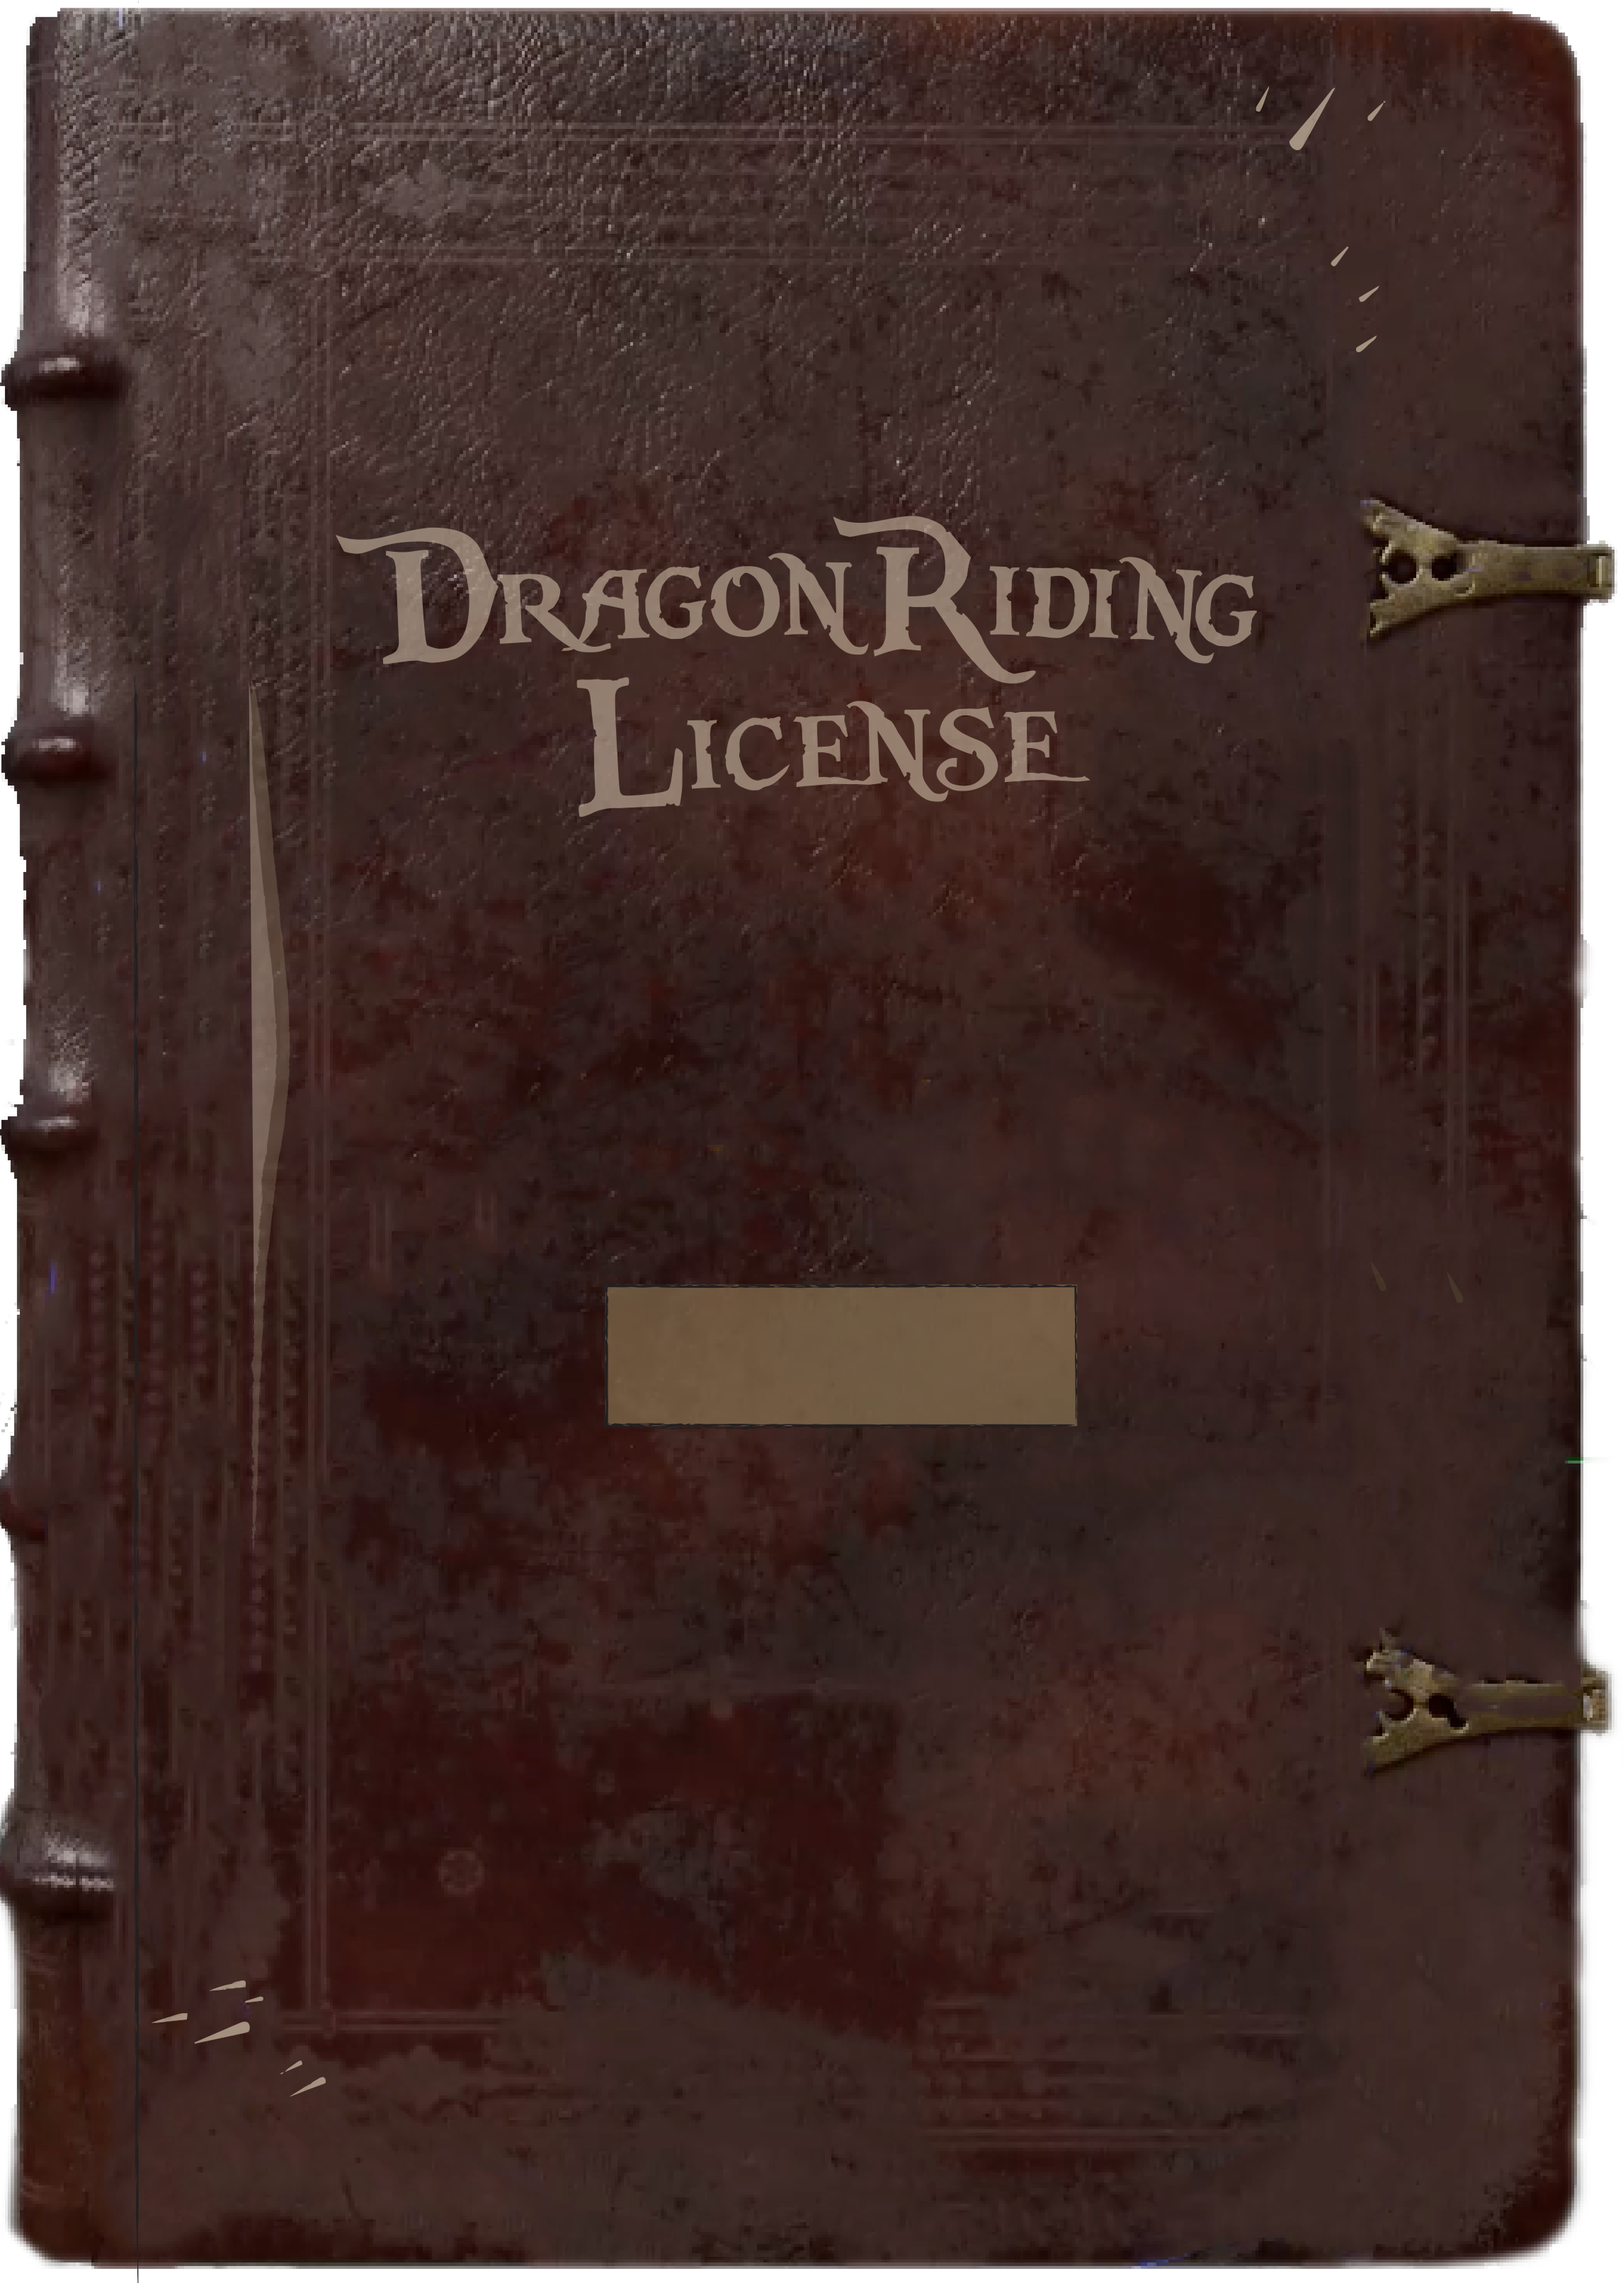
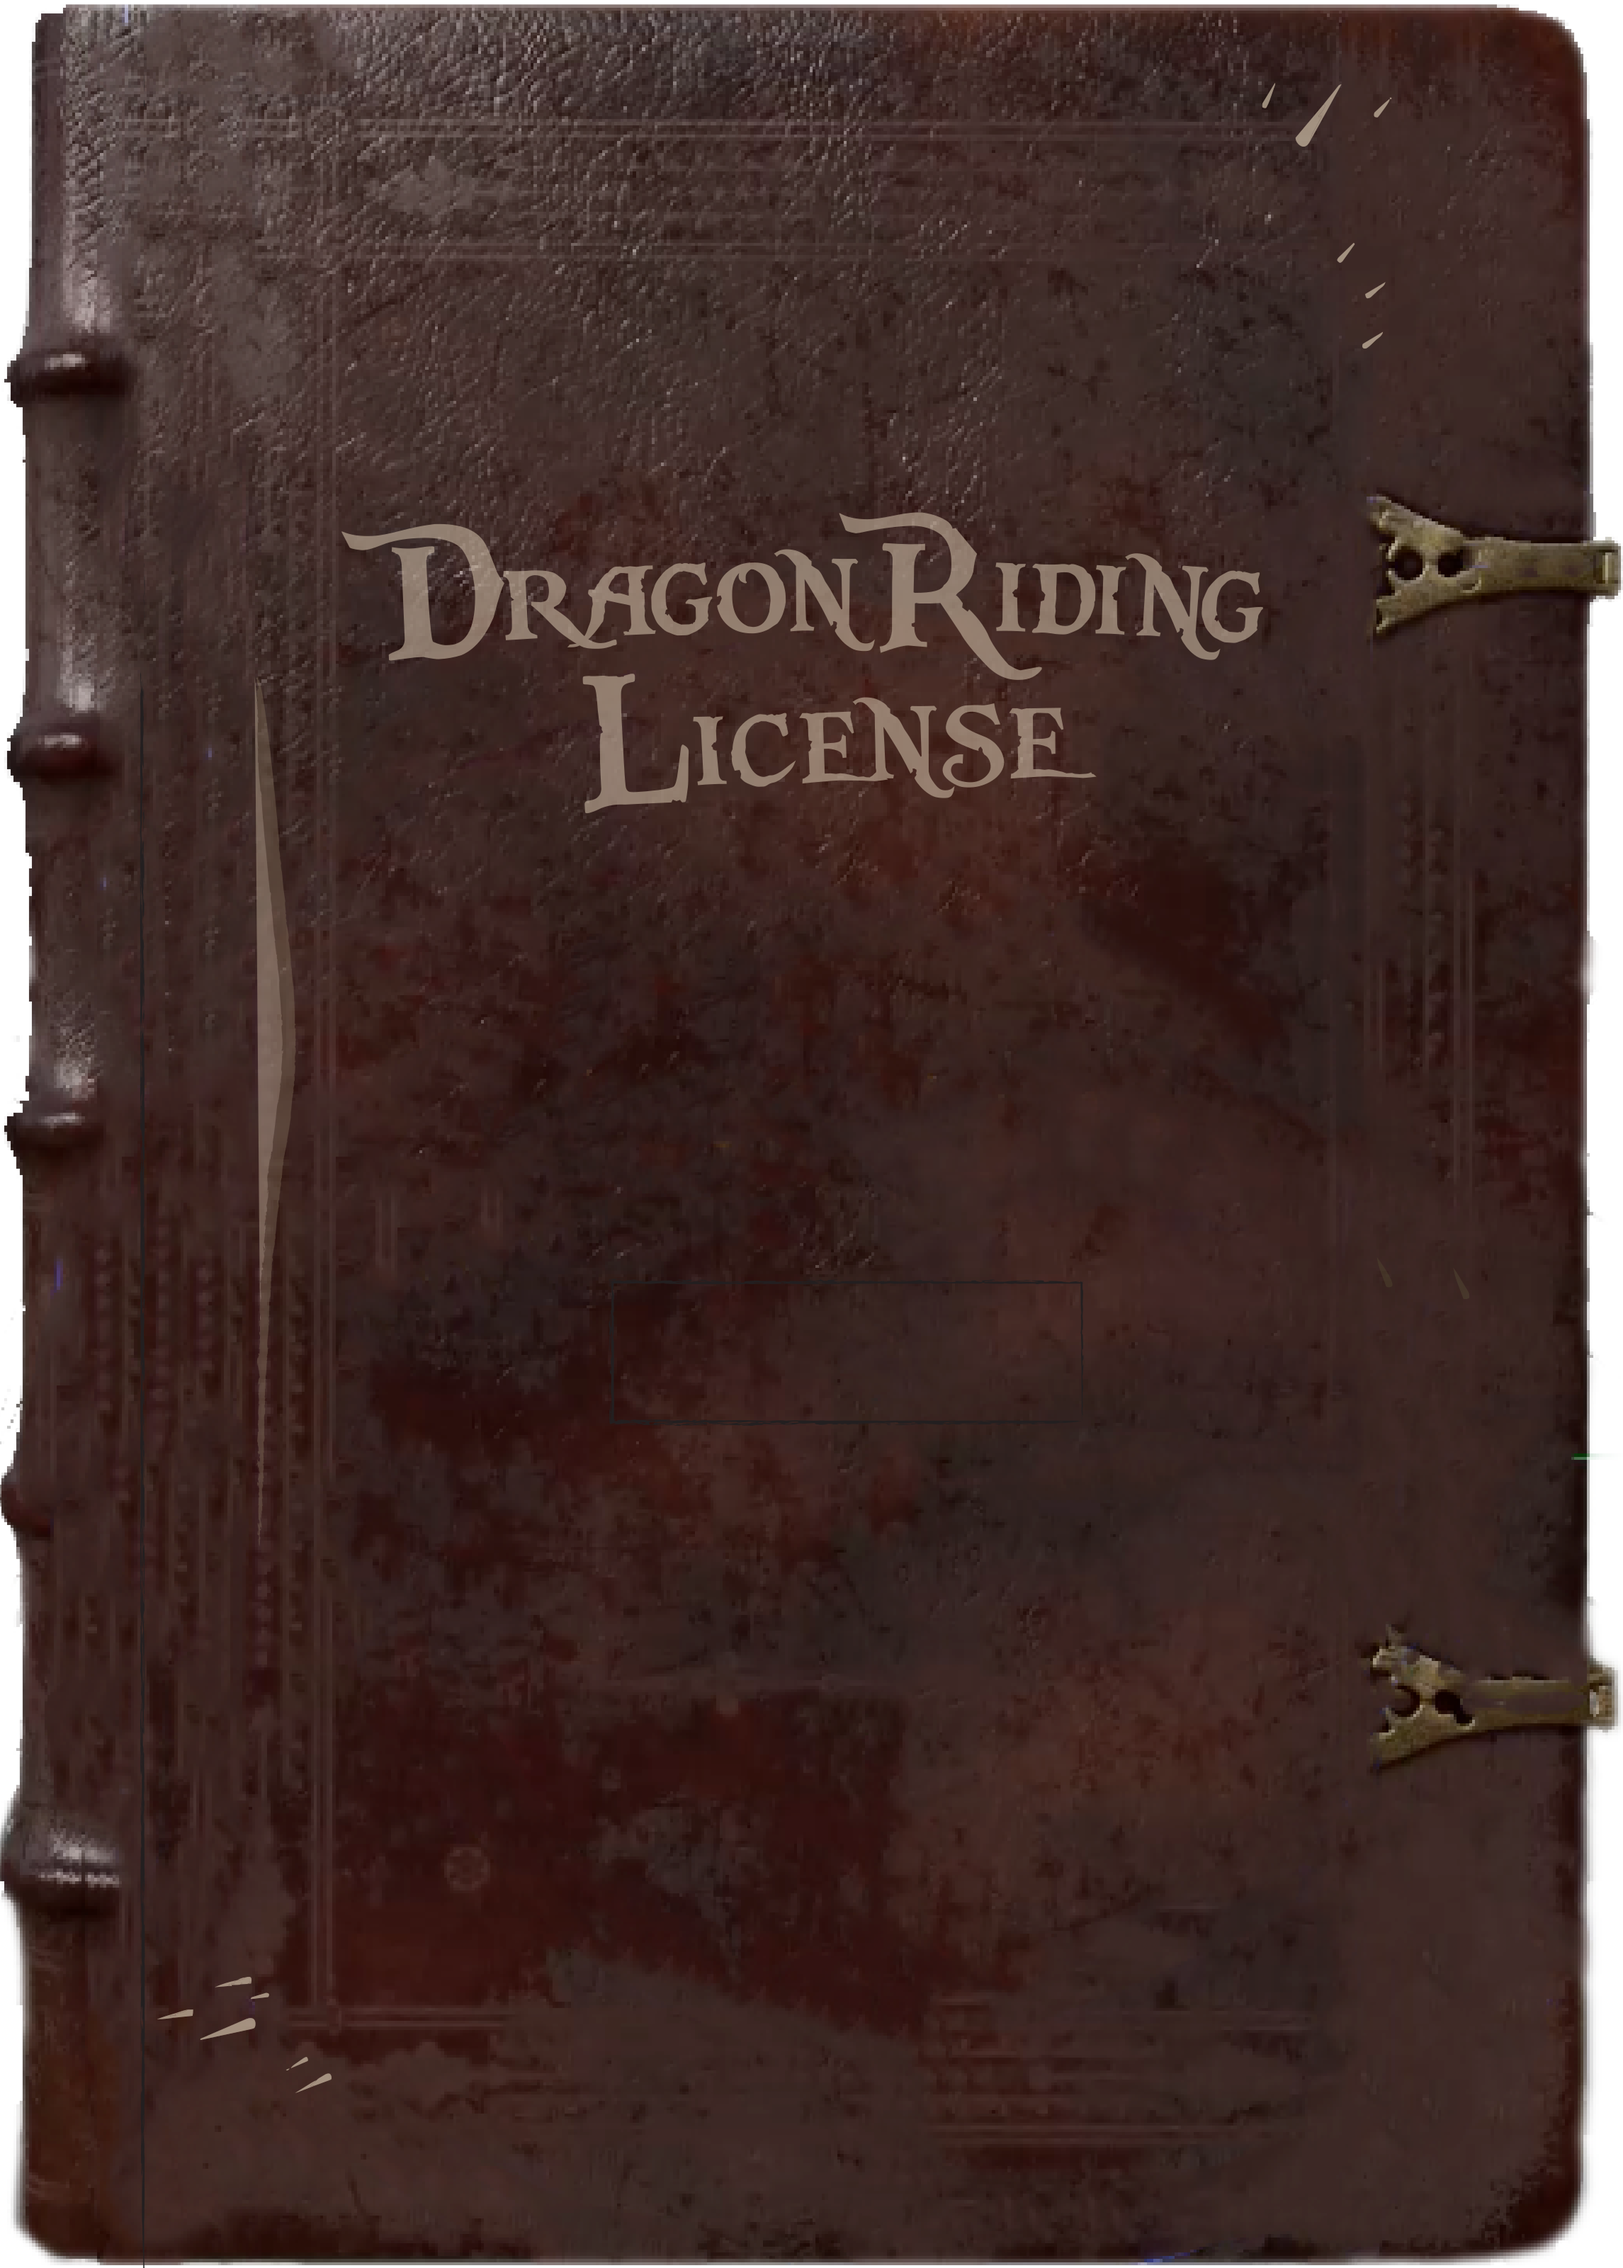
First Draft Complete

diff --git a/lib/screens/video_playback_page.dart b/lib/screens/video_playback_page.dart
@@ -115,7 +115,7 @@ class VideoPlaybackPageState extends State<VideoPlaybackPage>
         .then((_) {
           if (mounted && _videoController != null) {
             // Seek to 9 seconds (where we paused before)
-            _videoController?.seekTo(const Duration(seconds: 9));
+            _videoController?.seekTo(Duration(seconds: 9));
 
             setState(() {
               _videoController?.setLooping(false);
@@ -163,7 +163,7 @@ class VideoPlaybackPageState extends State<VideoPlaybackPage>
         // Close camera and resume video after 5 seconds
         _cameraCloseTimer = Timer(const Duration(seconds: 5), () {
           if (mounted) {
-            _closeCameraAndResumeVideo();
+            // _closeCameraAndResumeVideo();
           }
         });
       }
@@ -236,11 +236,13 @@ class VideoPlaybackPageState extends State<VideoPlaybackPage>
   void startRetakeSequence() async {
     if (!mounted) return;
 
+    // Reset state
+    _hasStarted = false;
     _videoPauseTimer?.cancel();
     _cameraCloseTimer?.cancel();
 
     _videoController?.pause();
-    _cameraController?.dispose();
+    await _cameraController?.dispose();
     _cameraController = null;
 
     setState(() {
@@ -252,17 +254,25 @@ class VideoPlaybackPageState extends State<VideoPlaybackPage>
     _animationController.value = 1.0;
     await _ensureVideoBackgroundReady();
     if (!mounted) return;
+
     // Ensure the paused frame is painted before animation starts.
     setState(() {});
+    await Future.delayed(const Duration(milliseconds: 100));
+    if (!mounted) return;
+
     try {
       await _animationController.reverse();
     } catch (_) {
       // No-op: still proceed to show camera even if animation fails.
     }
     if (!mounted) return;
+
     setState(() {
       _bookCoverOpacity = 0.0;
     });
+
+    await Future.delayed(const Duration(milliseconds: 300));
+    if (!mounted) return;
     _initializeCamera();
   }
 
@@ -284,7 +294,7 @@ class VideoPlaybackPageState extends State<VideoPlaybackPage>
 
       // Show a paused frame at the same point as the retake sequence.
       await _videoController?.seekTo(
-        const Duration(seconds: 8, milliseconds: 800),
+        const Duration(seconds: 8, milliseconds: 900),
       );
       setState(() {});
     } catch (e) {
@@ -296,7 +306,7 @@ class VideoPlaybackPageState extends State<VideoPlaybackPage>
   @override
   Widget build(BuildContext context) {
     final screenSize = MediaQuery.of(context).size;
-    final initialHeight = 1450.0;
+    final initialHeight = 1440.0;
     final targetHeight = screenSize.height;
 
     return Container(
@@ -326,13 +336,16 @@ class VideoPlaybackPageState extends State<VideoPlaybackPage>
               _cameraController!.value.isInitialized)
             Center(
               child: Transform.translate(
-                offset: Offset(-30, -10),
+                offset: Offset(-10, 10),
                 child: SizedBox(
-                  width: 660,
-                  height: 660,
+                  width: 680,
+                  height: 680,
                   child: ClipRRect(
-                    borderRadius: BorderRadius.circular(18800),
-                    child: CameraPreview(_cameraController!),
+                    borderRadius: BorderRadius.circular(189800),
+                    child: Transform.rotate(
+                      angle: 3.14159, // 180 degrees in radians (π)
+                      child: CameraPreview(_cameraController!),
+                    ),
                   ),
                 ),
               ),

diff --git a/lib/screens/starting_page.dart b/lib/screens/starting_page.dart
@@ -41,6 +41,19 @@ class _StartingPageState extends State<StartingPage> {
     });
   }
 
+  void _flipBackToVideoPlayback() {
+    _videoPlaybackKey.currentState?.seekToTimestamp(
+      const Duration(seconds: 9, milliseconds: 170),
+    );
+
+    _pageFlipKey.currentState?.previousPage();
+
+    // Start the video playback sequence after page flip
+    Future.delayed(const Duration(milliseconds: 700), () {
+      _videoPlaybackKey.currentState?.startSequence();
+    });
+  }
+
   void _flipToVikingName() {
     // Reset the third page before navigating to it.
 
@@ -90,7 +103,10 @@ class _StartingPageState extends State<StartingPage> {
             onNameConfirmed: _flipToVideoPlayback,
           ),
           VideoPlaybackPage(key: _videoPlaybackKey, onVideoComplete: _flipPage),
-          ConfirmLicenseWrapper(onRetake: _handleRetake, onConfirm: _flipPage),
+          ConfirmLicenseWrapper(
+            onRetake: _flipBackToVideoPlayback,
+            onConfirm: _flipPage,
+          ), //_handleRetake
           DigitalCopy(onConfirm: _flipPage),
           ThankYouScreen(onReset: _resetApp),
         ],
@@ -303,22 +319,27 @@ class _FirstPageState extends State<_FirstPage>
             left: 490,
             child: GestureDetector(
               onTap: _handleStartPressed,
-              child: Container(
-                width: 285,
-                height: 75,
-                color: Colors.transparent,
-                child: Center(
-                  child: _startPressed
-                      ? SizedBox.shrink()
-                      : Text(
-                          "START",
-                          style: TextStyle(
-                            fontSize: 30,
-                            fontWeight: FontWeight.w500,
-                            fontFamily: Constants.fontAdornExpandedSans,
-                            color: Colors.black,
-                          ),
+              child: AnimatedOpacity(
+                opacity: _startPressed ? 0.0 : 1.0,
+                duration: const Duration(milliseconds: 300),
+                child: IgnorePointer(
+                  ignoring: _startPressed,
+                  child: Container(
+                    width: 285,
+                    height: 75,
+                    color: Color(0xff6D553E),
+                    child: Center(
+                      child: Text(
+                        "START",
+                        style: TextStyle(
+                          fontSize: 30,
+                          fontWeight: FontWeight.w500,
+                          fontFamily: Constants.fontAdornExpandedSans,
+                          color: Colors.black,
                         ),
+                      ),
+                    ),
+                  ),
                 ),
               ),
             ),
